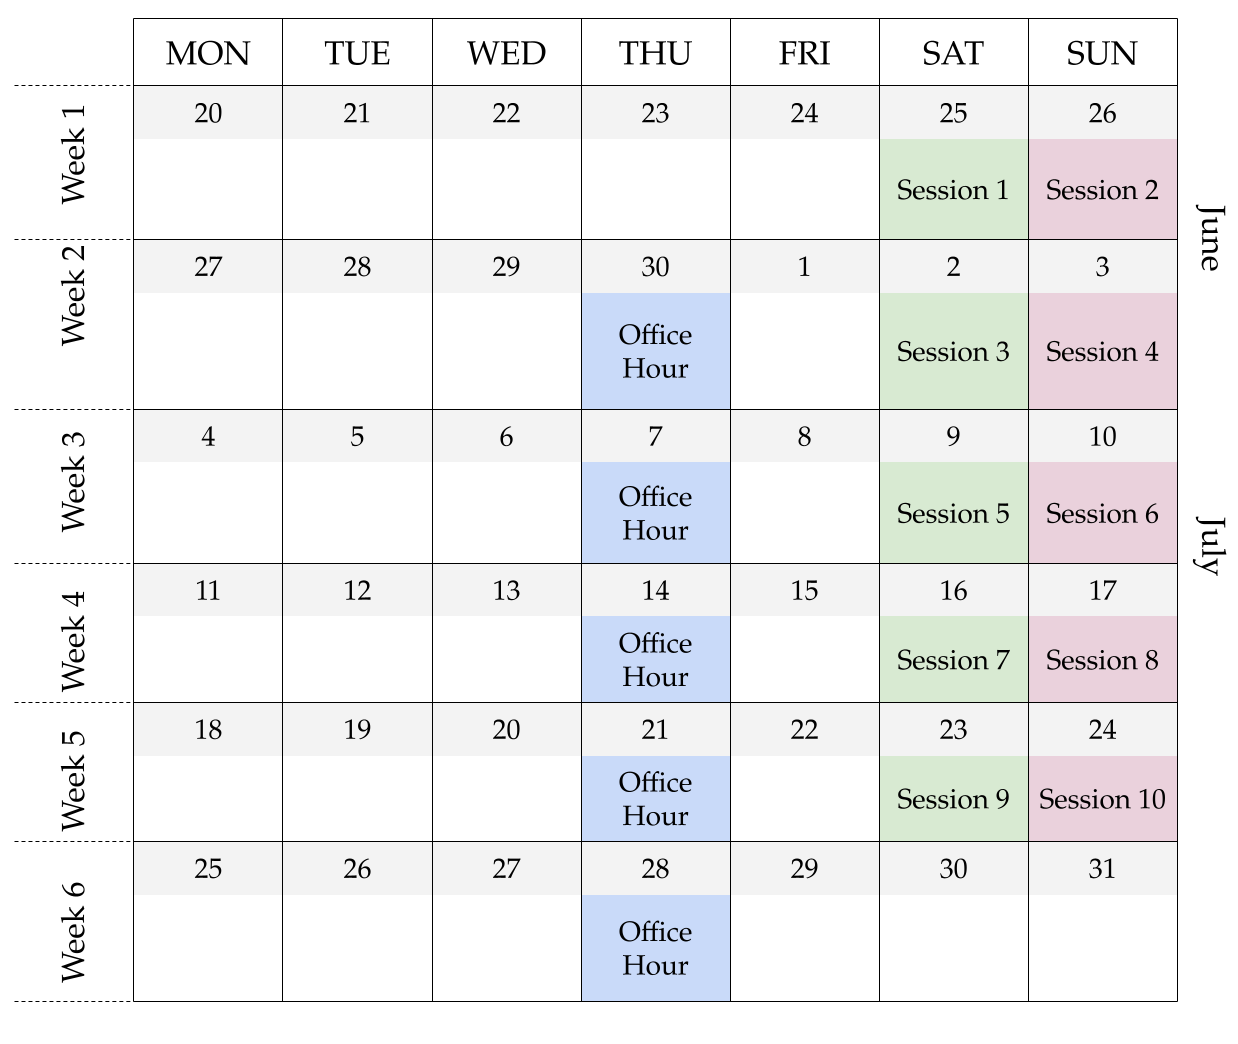
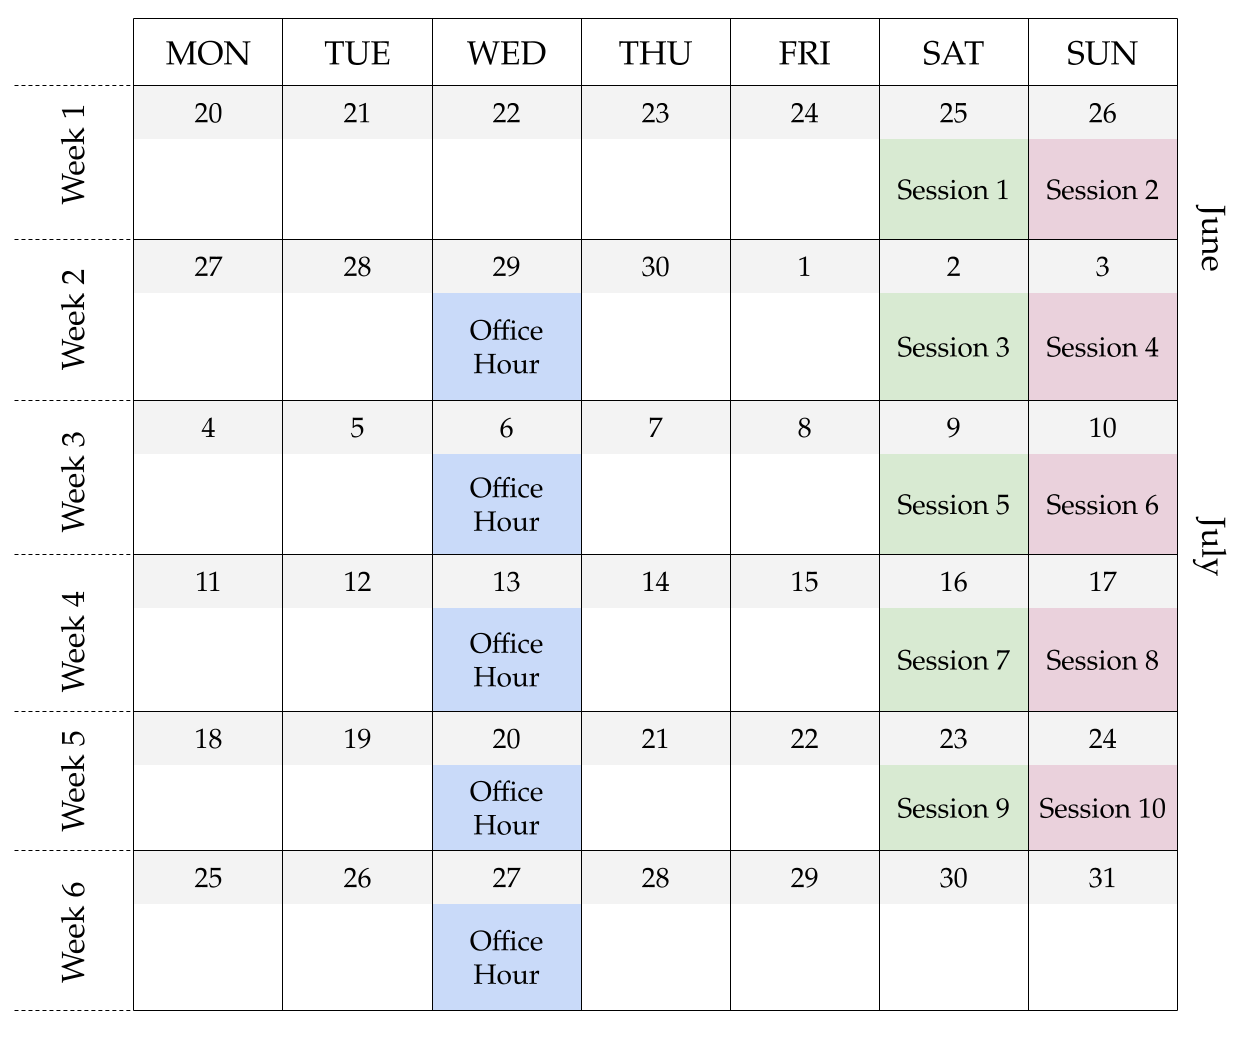
update ai0 timings

diff --git a/_courses/ai0.md b/_courses/ai0.md
@@ -323,6 +323,17 @@ After the session, students are expected to complete a short post-class quiz bas
 
 ![](/assets/ai0-c5.assets/Schedule.png)
 
+**Lecture Sessions**: 
+
+- Saturday: ```5:30 PM - 7:30 PM IST [8:00 AM - 10:00 AM EST]```
+
+- Sunday: ```5:30 PM - 7:30 PM IST [8:00 AM - 10:00 AM EST]```
+
+
+**Office hours**: 
+
+- Wednesday: ```7:00 PM - 8:00 PM IST [9:30 AM - 10:30 AM EST]```
+
 Please check your mail for more information.
 
 ### Sample Class
